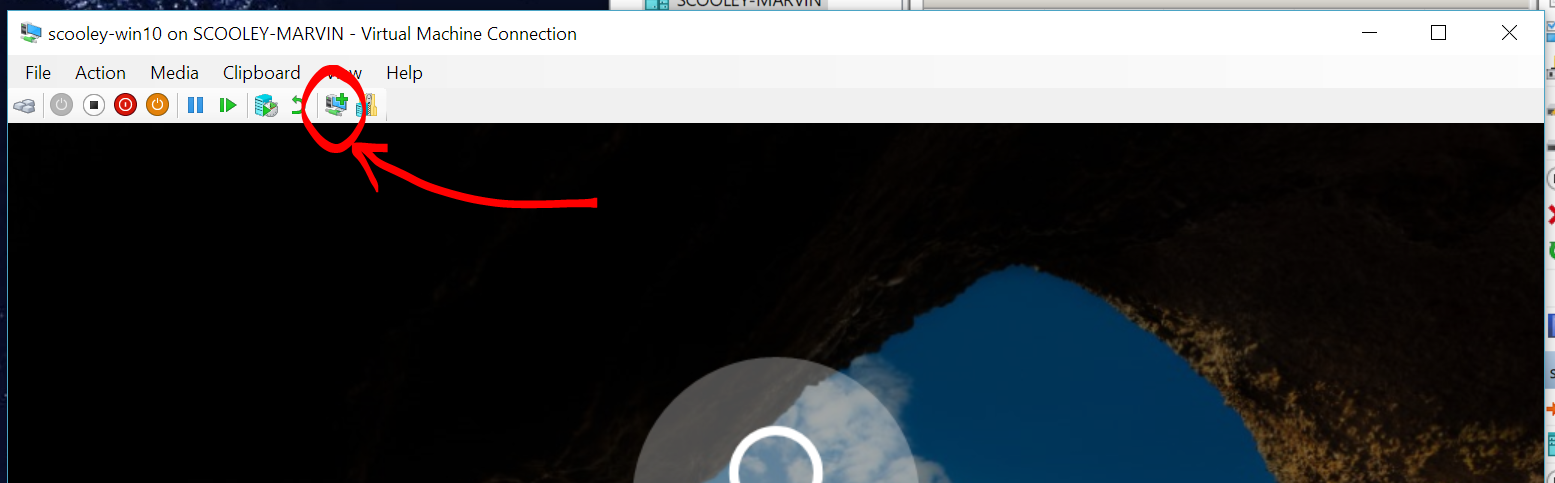
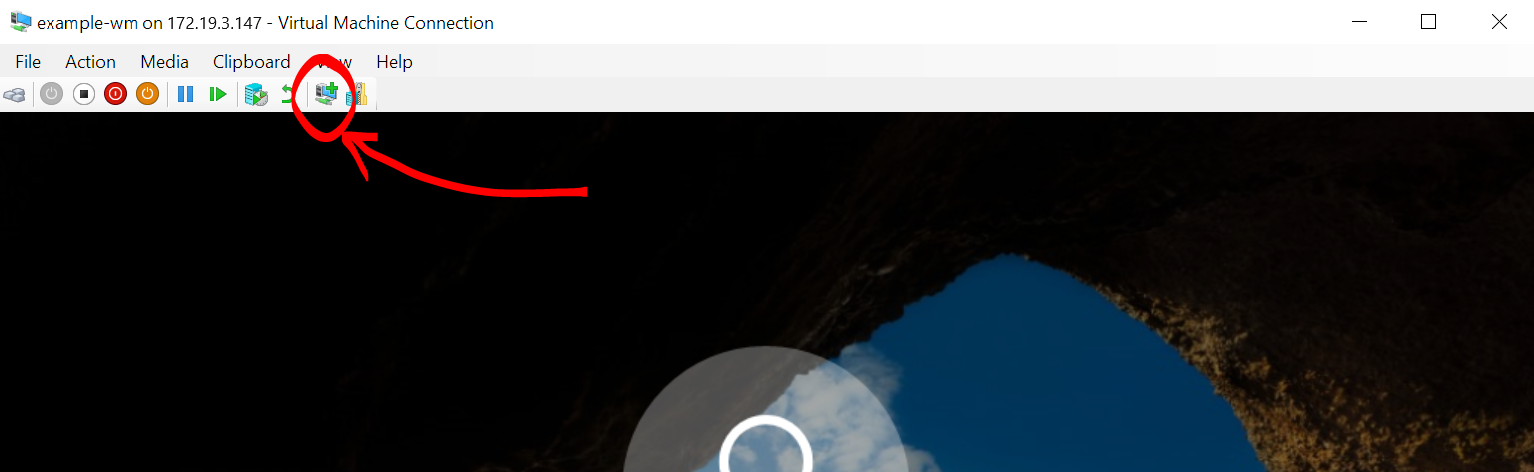
Refresh article and remove PII from screenshots

diff --git a/virtualization/hyper-v-on-windows/user-guide/enhanced-session-mode.md b/virtualization/hyper-v-on-windows/user-guide/enhanced-session-mode.md
@@ -11,14 +11,14 @@ ms.assetid: d1aeb9cb-b18f-43cb-a568-46b33346a188
 
 # Share devices with your virtual machine
 
-> Only available for Windows virtual machines.
+In enhanced session mode, you can connect to Hyper-V virtual machines (VMs) by using remote desktop protocol (RDP). Not only does this capability improve your general VM viewing experience, using RDP also provides a way for the VM and your computer to share devices. This functionality is only available for Windows VMs.
 
-Enhanced Session Mode lets Hyper-V connect to virtual machines using RDP (remote desktop protocol). Not only does this improve your general virtual machine viewing experience, connecting with RDP also allows the virtual machine to share devices with your computer. Since it's on by default in Windows 10, you're probably already using RDP to connect to your Windows virtual machines. This article highlights some of the benefits and hidden options in the connection settings dialogue.
+Because RDP is turned on by default in Windows 10, you probably already use RDP to connect to your Windows VMs. This article highlights some of the benefits and hidden options in the connection settings dialog.
 
 RDP/Enhanced Session mode does the following:
 
-- Makes virtual machines resizable and high DPI aware.
-- Improves virtual machine integration
+- Makes VMs resizable and high DPI aware.
+- Improves VM integration
   - Shared clipboard
   - File sharing via drag drop and copy paste
 - Allows device sharing
@@ -31,79 +31,90 @@ This article shows you how to see your session type, enter enhanced session mode
 
 ## Check session type
 
-You can check to see what type of connection you have using the Enhanced Session mode icon in the top of the Virtual Machine Connect tool (VMConnect). This button also lets you toggle between basic session and enhanced session mode.
+You can check your connection type by using the enhanced session mode icon in the top of the Virtual Machine Connection tool (VMConnect). You can also use this button to switch between basic session mode and enhanced session mode.
 
 ![Screenshot of the Enhanced Session mode icon emphasized in the VM Connect tool bar.](media/esm-button-location.png)
 
-| icon | connection state |
+| Icon | Connection state |
 |:-----|:---------|
-|:::image type="icon" source="media/esm-basic.png" lightbox="media/esm-basic.png":::| You're currently running in enhanced session mode.  Clicking this icon will reconnect to your virtual machine in basic mode. |
-|:::image type="icon" source="media/esm-connect.png" lightbox="media/esm-connect.png":::| You're currently running in basic session mode but enhanced session mode is available.  Clicking this icon will reconnect to your virtual machine in enhanced session mode.  |
-|:::image type="icon" source="media/esm-stop.png" lightbox="media/esm-stop.png":::| You're currently running in basic mode.  Enhanced session mode isn't available for this virtual machine. |
+|:::image type="icon" source="media/esm-basic.png" lightbox="media/esm-basic.png":::| You're currently running in enhanced session mode. Selecting this icon reconnects you to your VM in basic mode. |
+|:::image type="icon" source="media/esm-connect.png" lightbox="media/esm-connect.png":::| You're currently running in basic session mode, but enhanced session mode is available. Selecting this icon reconnects you to your VM in enhanced session mode. |
+|:::image type="icon" source="media/esm-stop.png" lightbox="media/esm-stop.png":::| You're currently running in basic session mode.  Enhanced session mode isn't available for this VM. |
 
 ## Configure VM for Remote Desktop
 
-Enhanced Session Mode requires Remote Desktop to be enabled in the VM. Search for "Remote Desktop settings" in the Settings app or Start menu. Turn "Enable Remote Desktop" on.
+Enhanced session mode requires Remote Desktop to be turned on in the VM. In the Settings app or Start menu, search for **Remote Desktop settings**. Turn on the **Enable Remote Desktop** toggle.
 
 ![Enable Remote Desktop](media/remote-desktop-settings.png)
 
-Versions newer than Windows 10, version 2004 will requrire an additional setting, this includes Windows 11. If the Virtual Machine Connect window shows a background without a login prompt, then you need to make one more change.
+Windows 10, version 2004, and later versions require an extra setting. This requirement applies to Windows 11. If the background of the VMConnect window doesn't contain a sign-in prompt, you need to make one more change:
 
-First, log back in to the VM using Basic Mode. Search for "Sign-In Options" in the Settings app or Start menu.
-On this page, turn "Require Windows Hello sign-in for Microsoft accounts" off.
+1. Sign in to the VM by using basic session mode.
 
-| Windows 11 | Windows 10 |
-|:----|:----|
-|[ ![Disable Require Windows Hello sign-in Win 11](media/sign-in-options-win11.png) ](media/sign-in-options-win11.png#lightbox)|[ ![Disable Require Windows Hello sign-in](media/sign-in-options.png) ](media/sign-in-options.png#lightbox) |
+1. In the Settings app or Start menu, search for **Sign-in options**.
 
-Now, sign out of the VM or reboot before closing the Virtual Machine Connect window.
+1. On the **Sign-in options** page, turn off the toggle for requiring Windows Hello sign-in for Microsoft accounts.
+
+   | Windows 11 | Windows 10 |
+   |:----|:----|
+   |[ ![Disable Require Windows Hello sign-in Win 11](media/sign-in-options-win11.png) ](media/sign-in-options-win11.png#lightbox)|[ ![Disable Require Windows Hello sign-in](media/sign-in-options.png) ](media/sign-in-options.png#lightbox) |
+
+1. Sign out of the VM or reboot it before you close the VMConnect window.
 
 ## Share drives and devices
 
-Enhanced Session Mode's device sharing capabilities are hidden inside this inconspicuous connection window that pops up when you connect to a virtual machine:
+You can find the device sharing capabilities of enhanced session mode in the Display configuration window that opens when you connect to a VM:
 
 ![Screenshot of the connection pop up with a Display configuration of 1366 by 768 pixels.](media/esm-default-view.png)
 
-By default, virtual machines using enhanced session mode will share clipboard and printers. They're also configured by default to pass audio from the virtual machine back to your computer's speakers.
+In enhanced session mode, VMs have access to the clipboard and printers by default. The VMs are also configured by default to transfer audio to your computer's speakers.
 
-To share devices with your virtual machine or to change those default settings:
+To share devices with your VM or to change the default settings:
 
-1. When connecting to Show more options
+1. In VMConnect, select the virtual machine that you want to connect to.
 
-      ![Screenshot of the connection pop up with the Show Options drop down emphasized.](media/esm-show-options.png)
+1. Select **Show Options**.
 
-1. View local resources
+   ![Screenshot of the connection pop up with the Show Options drop down emphasized.](media/esm-show-options.png)
 
-      ![Screenshot of the connection pop up with the Local Resources tab emphasized.](media/esm-local-resources.png)
+1. Select **Local Resources**, and then adjust the settings.
+
+   ![Screenshot of the connection pop up with the Local Resources tab emphasized.](media/esm-local-resources.png)
 
 ### Share storage and USB devices
 
-By default, virtual machines using enhanced session mode share printers, and the clipboard. They pass smartcard and other security devices through to the virtual machine so you can use more secure login tools from your virtual machine.
+Besides the clipboard and printers, VMs have access to smart cards and other security devices in enhanced session mode. As a result, you can use more secure sign-in tools from your VM.
 
-To share other devices, such as USB devices or your C: drive, select the "More..." menu:  
-![Screenshot of the More button emphasized in the Local devices and resources section.](media/esm-more-devices.png)
+To share other devices with a VM, such as USB devices or drive C, take the following steps:
 
-From there, you can select the devices you'd like to share with the virtual machine. The system drive (Windows C:) is especially helpful for file sharing.  
-![Screenshot of Smart cards selected in the Local Resources dialog.](media/esm-drives-usb.png)
+1. Under **Local devices and resources**, select **More**.
+
+   ![Screenshot of the More button emphasized in the Local devices and resources section.](media/esm-more-devices.png)
+
+1. Select the devices that you want to share with the VM. The system drive, which is drive C on Windows, is especially helpful for file sharing.
+
+   ![Screenshot of Smart cards selected in the Local Resources dialog.](media/esm-drives-usb.png)
 
 ### Share audio devices (speakers and microphones)
 
-By default, virtual machines using enhanced session mode pass audio through so you can hear audio from the virtual machine. The virtual machine uses the audio device currently selected on the host machine.
+Because VMs transfer audio by default in enhanced session mode, you can hear audio from the VM on the host machine. The VM uses the audio device that's currently selected on the host machine.
 
-To change those settings or to add microphone passthrough so that you can record audio in a virtual machine:
+To change these settings, or to add microphone pass-through so that you can record audio in a VM:
 
-Select the "Settings..." menu for configuring remote audio settings:  
-![Screenshot of the Settings button emphasized in the Remote audio section.](media/esm-audio.png)
+1. Select **Settings** to configure remote audio settings.
 
-Next, configure audio and microphone settings: 
-![Screenshot of Remote audio playback set to Play on this computer and disabling Remote audio recording.](media/esm-audio-settings.png)
+   ![Screenshot of the Settings button emphasized in the Remote audio section.](media/esm-audio.png)
 
-Since your virtual machine is probably running locally, the "play on this computer" and "play on remote computer" options yield the same results.
+1. Configure audio and microphone settings.
 
-## Re-launching the connection settings
+   ![Screenshot of Remote audio playback set to Play on this computer and disabling Remote audio recording.](media/esm-audio-settings.png)
 
-If you aren't getting the resolution and device sharing dialogue box, try launching VMConnect independently from either the Windows menu or from the command line as Administrator.  
+   If your VM is running locally, the **play on this computer** and **play on remote computer** options yield the same results.
 
-``` Powershell
+## Reopen the connection settings
+
+If you don't see the **Display configuration** dialog or the **Show Options** button, try opening VMConnect independently from either the Windows menu or the command line as an administrator.
+
+```PowerShell
 vmconnect.exe
 ```
